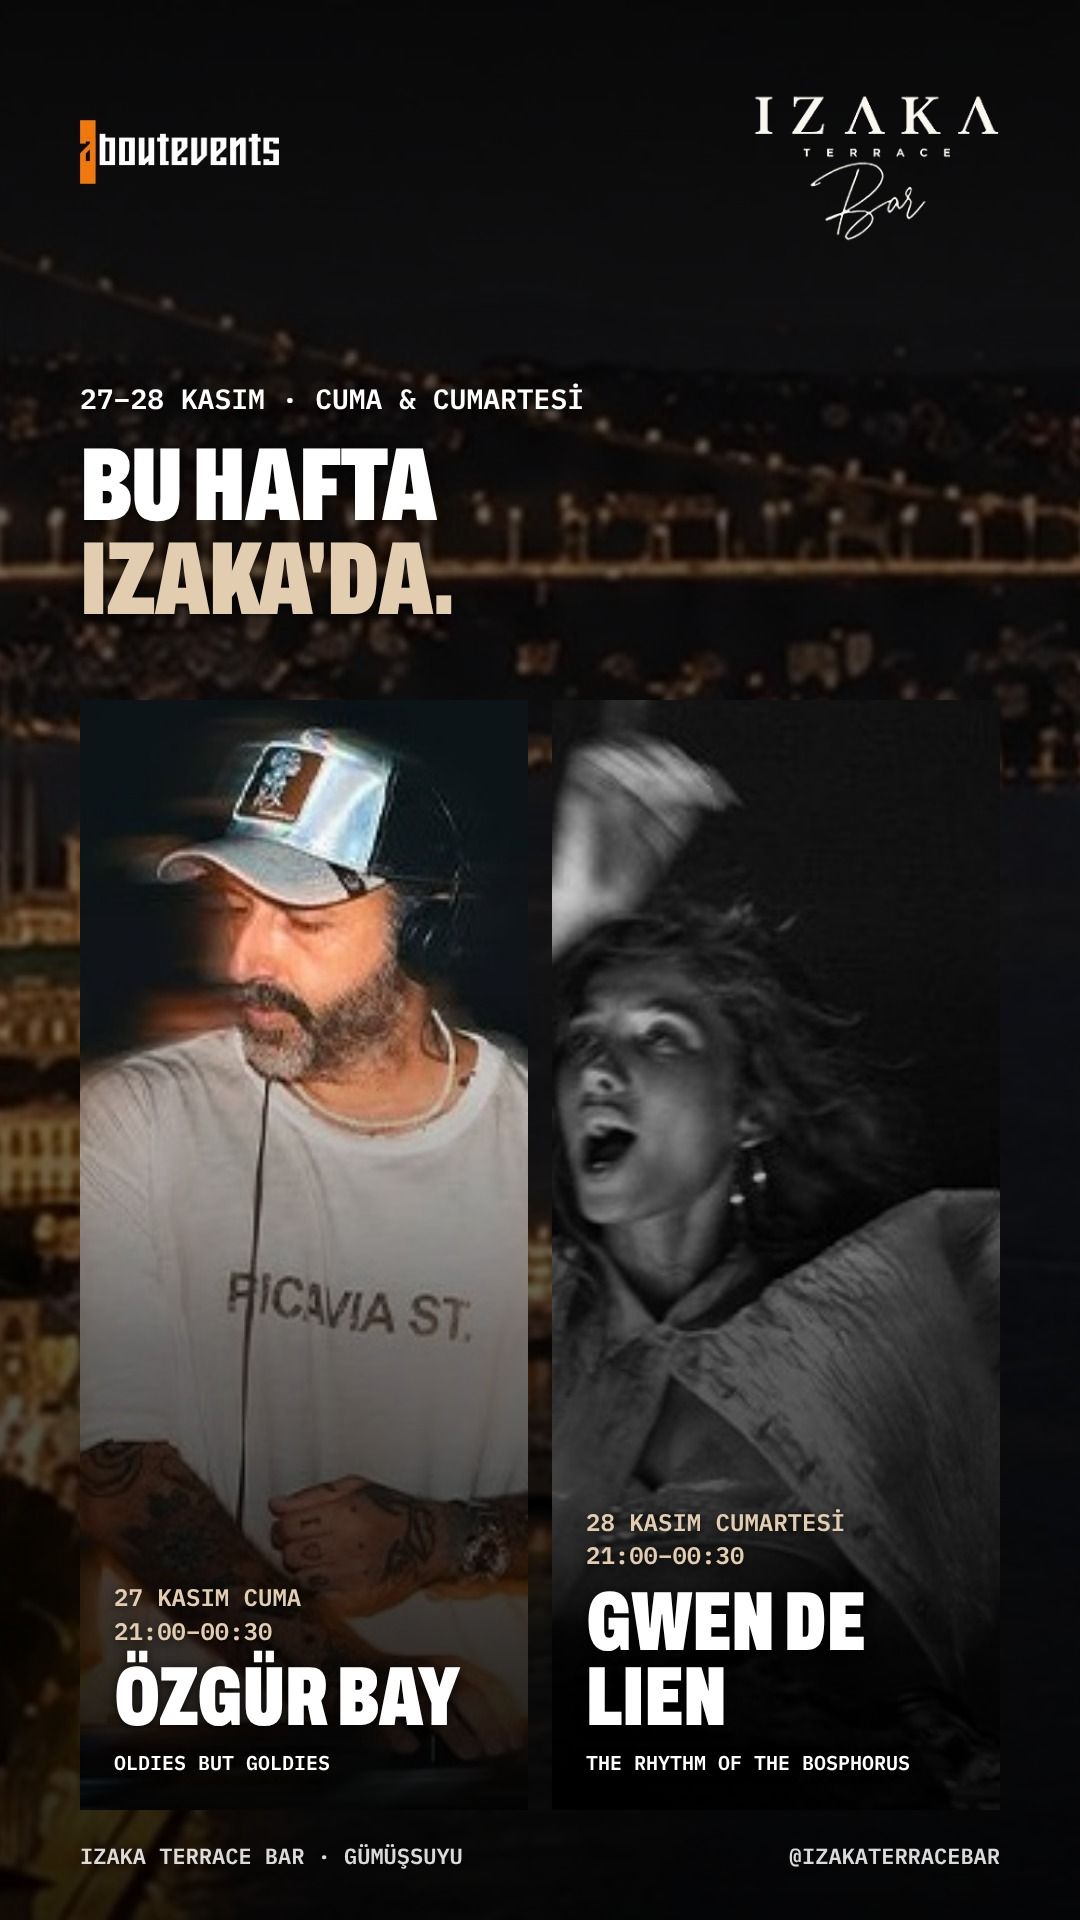
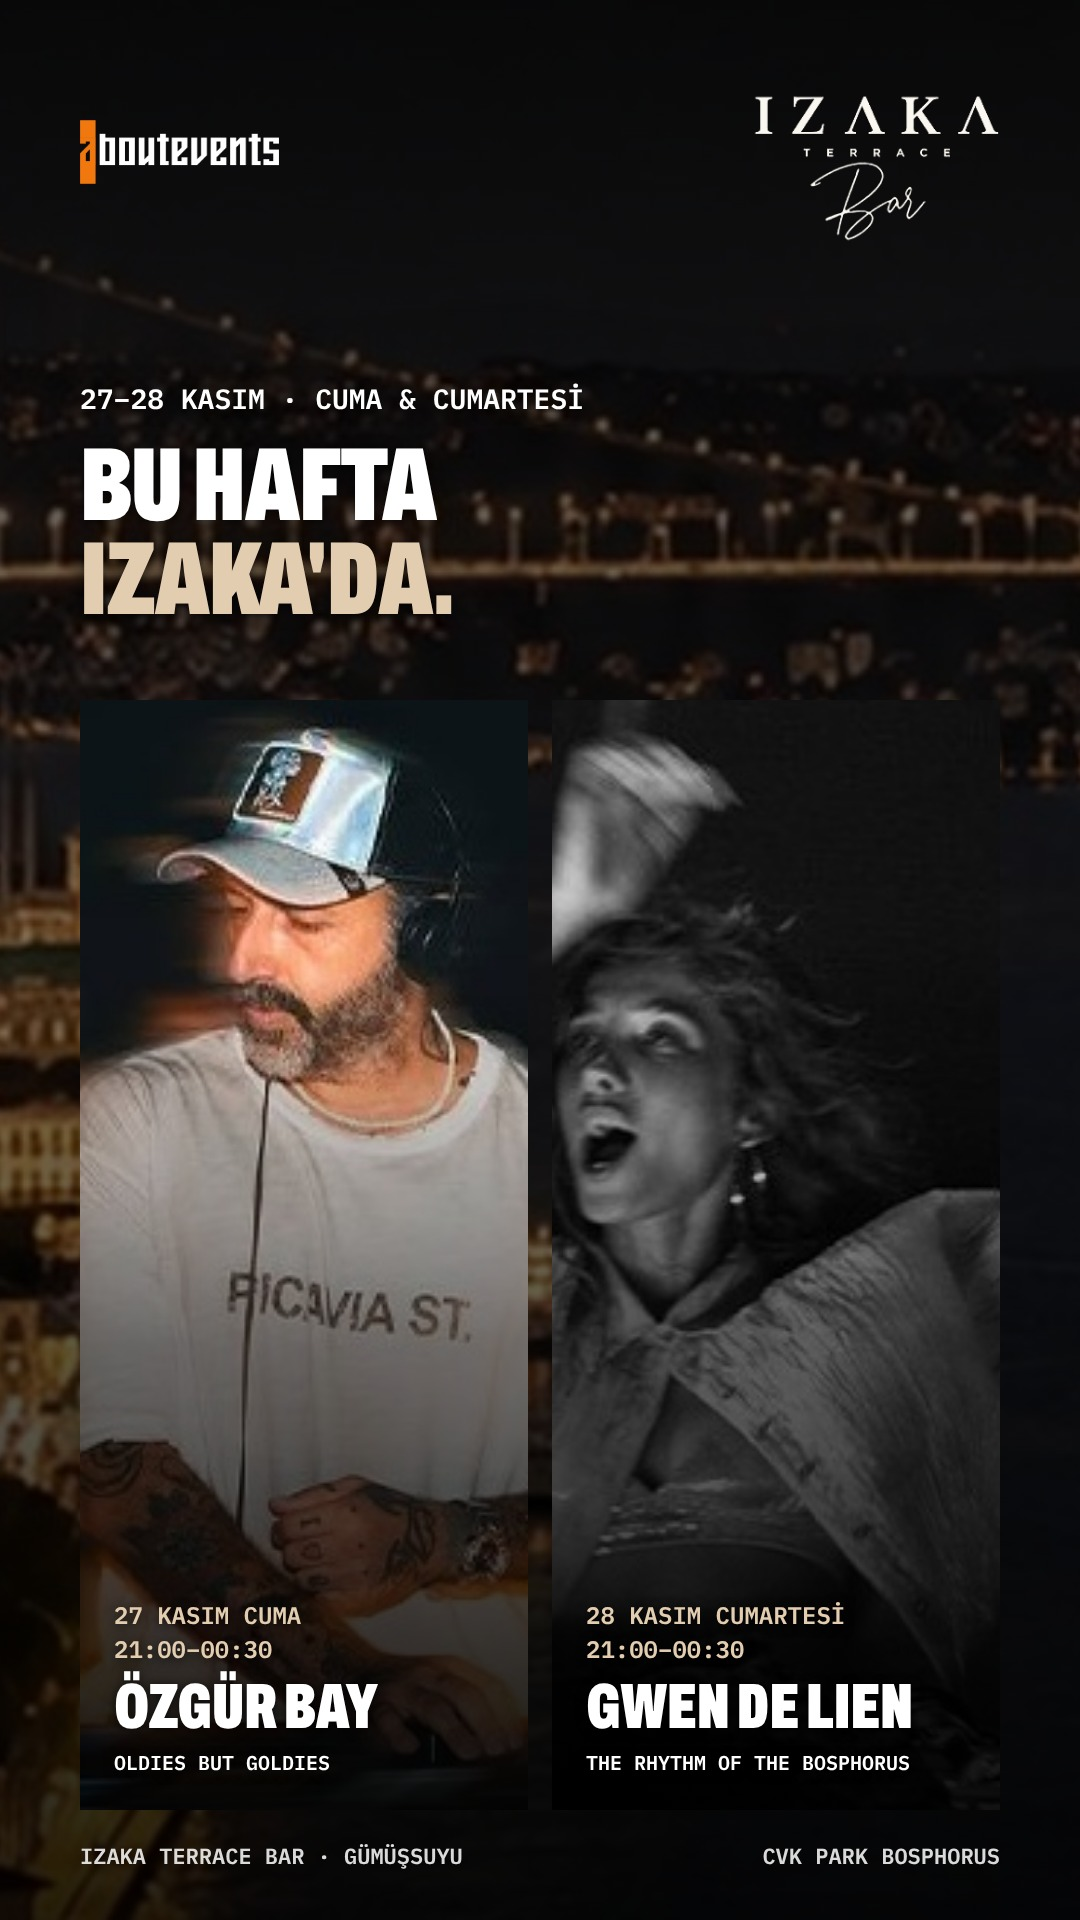
Izaka/ARTI2 haftalık: DJ fotoğrafları (ARTI2), isim ve tarihler kartlarda aynı hizada
Claude-Session: https://claude.ai/code/session_0179F1r1gaJKuiPNoLVd4rGP

diff --git a/venues_kit/weekly.py b/venues_kit/weekly.py
@@ -11,19 +11,21 @@ css = open(os.path.join(HERE, 'fonts.css')).read().replace('{F}', F)
 M = "font-family:'IBM Plex Mono',monospace;font-weight:600"; C = "font-family:'Archivo';font-weight:900;font-stretch:62%"
 acc = cfg['accent']
 def f(p): return 'file://' + (p if p.startswith('/') else os.path.join(A, p))
-def card(n, vertical):
-    sup = '<br>'.join(n['support'])
-    fs = n.get('head_size', 84)
+def card(n, vertical, fs, nsup):
+    sup = '<br>'.join(n['support'] + ['&nbsp;'] * (nsup - len(n['support'])))
     return f'''<div style="position:relative;overflow:hidden;background:#0d0d0d">
 <img src="{f(n['photo'])}" style="position:absolute;inset:0;width:100%;height:100%;object-fit:cover;object-position:{n.get('pos','50% 30%')}">
 <div style="position:absolute;inset:0;background:linear-gradient(to top,rgba(0,0,0,.92) 0%,rgba(0,0,0,.55) 42%,rgba(0,0,0,0) 75%)"></div>
 <div style="position:absolute;left:34px;right:30px;bottom:32px;display:flex;flex-direction:column;gap:12px;text-shadow:0 2px 12px rgba(0,0,0,.8)">
 <div style="{M};font-size:24px;color:{acc};line-height:1.4">{n['date']}<br>{n['time']}</div>
-<div style="{C};font-size:{fs}px;line-height:.9">{n['head']}</div>
+<div style="{C};font-size:{fs}px;line-height:.9;white-space:nowrap">{n['head']}</div>
 <div style="{M};font-size:{n.get('sup_size',20)}px;line-height:1.5">{sup}</div></div></div>'''
 def page(w, h):
     v = h > w
-    cards = ''.join(card(n, v) for n in cfg['nights'])
+    k = len(cfg['nights']); cw = ((w - (160 if v else 200)) - 24 * (k - 1)) / k - 64
+    fs = int(min(84, min(cw / (len(n['head']) * 0.5) for n in cfg['nights'])))
+    nsup = max(len(n['support']) for n in cfg['nights'])
+    cards = ''.join(card(n, v, fs, nsup) for n in cfg['nights'])
     grid = (f'left:80px;right:80px;top:700px;bottom:110px;grid-template-columns:repeat({len(cfg["nights"])},minmax(0,1fr))' if v
             else f'left:100px;right:100px;top:380px;bottom:90px;grid-template-columns:repeat({len(cfg["nights"])},minmax(0,1fr))')
     head = (f'''<div style="position:absolute;left:80px;right:80px;top:380px;display:flex;flex-direction:column;gap:22px;text-shadow:0 2px 14px rgba(0,0,0,.7)">
